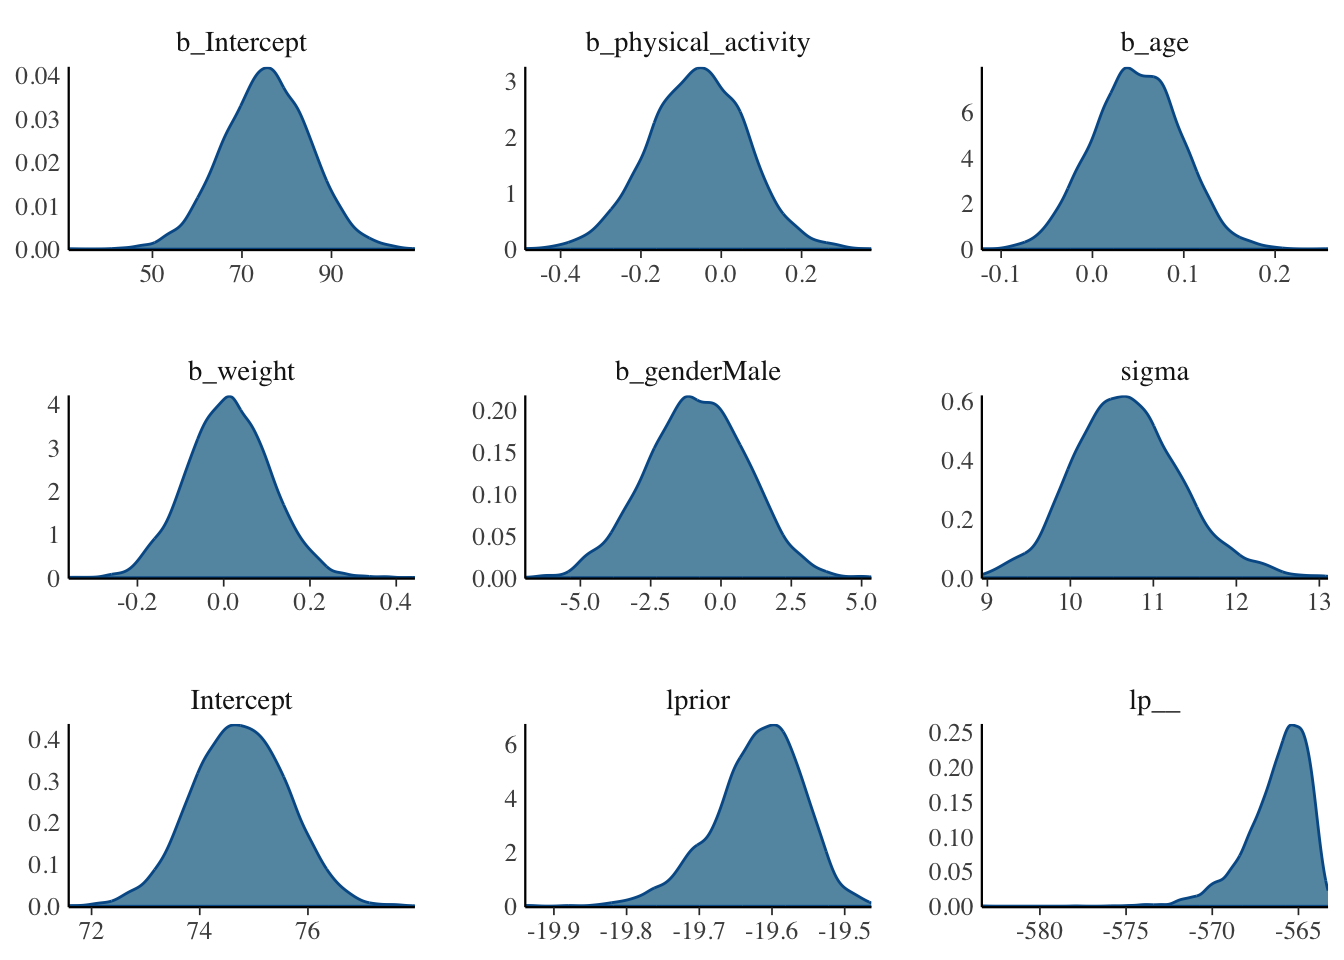
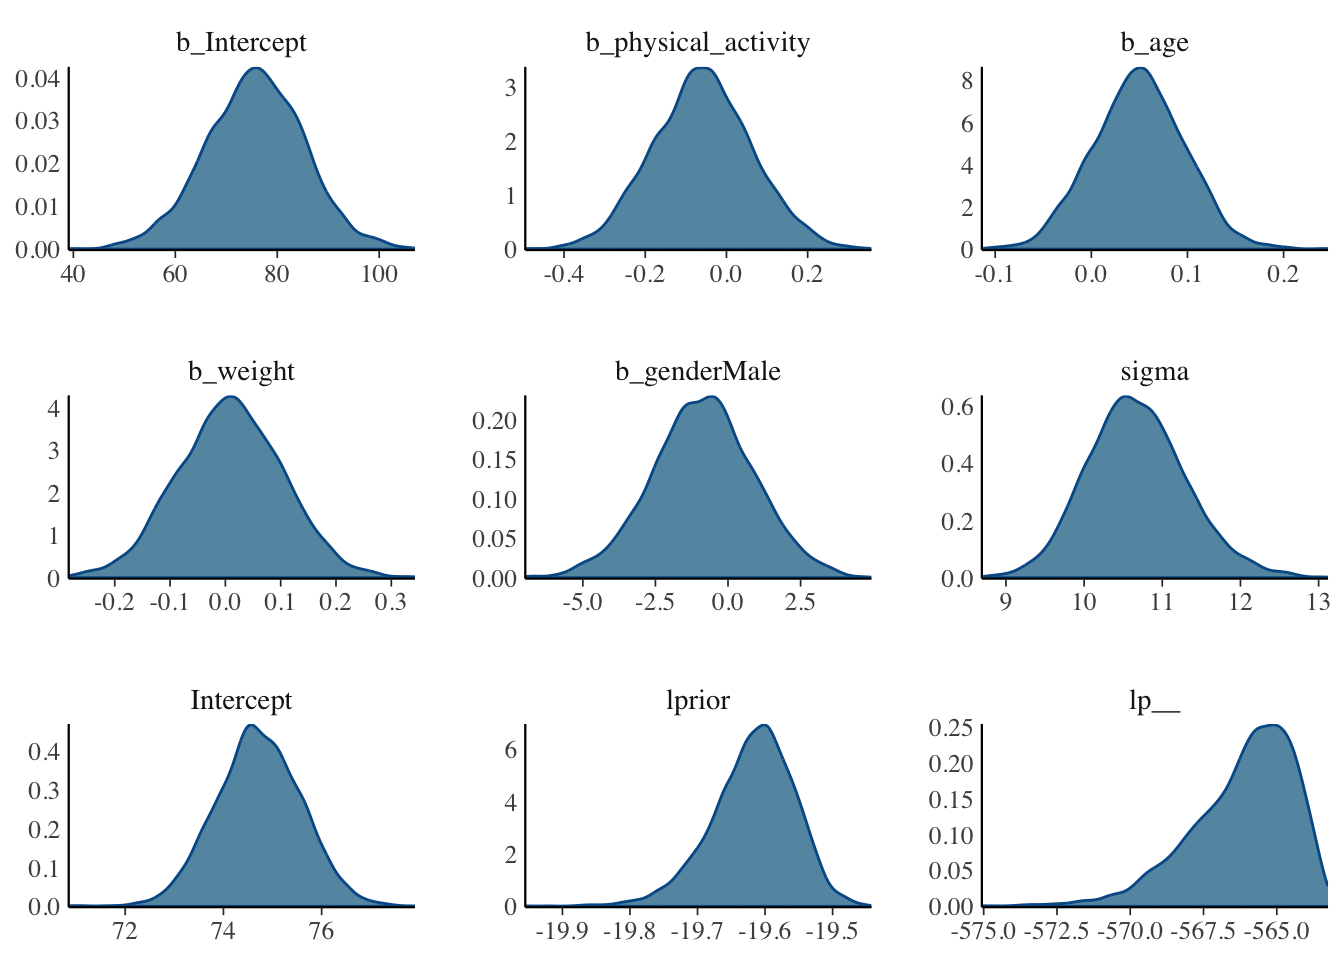
render

diff --git a/docs/begin.html b/docs/begin.html
@@ -215,7 +215,7 @@ pre > code.sourceCode > span > a:first-child::before { text-decoration: underlin
 <h1>Fear Not!</h1>
 <p><em>If you’re new to RStudio, you’ve come to the right place. Beyond my advanced projects, I’ve created this beginner-friendly page to share some basic computations. Whether you’re an employer or a colleague visiting, I’m delighted to have your interest.</em></p>
 <p><em>We all have our first “sense of horror” moment when we first encounter RStudio. For me, it was during my first year in a biostatistics class with my teacher, Tessa. She had us working on projects using RStudio during class, and those initial weeks were chaotic. We were all frustrated and terrified by what appeared on our screens—scary red errors seemed to pop up every second, and we felt like we were making no progress at all. However, Tessa remained by our side. She dedicated the beginning of every class to addressing the typical errors we encountered, guiding us toward smart tactics and helpful online resources.</em></p>
-<p><em>By the end of the semester, our perception of RStudio had completely changed. Tessa helped us realize that it wasn’t some dark abyss from which no student returns; it was a powerful tool that made statistics easier to compute. We bid farewell to the daunting equations we were accustomed to and began computing statistical techniques at a rapid pace. To this day, every one of my classmates continues to use RStudio with excitement and without fear. This software is truly your best friend if you use it wisely.</em></p>
+<p><em>By the end of the semester, our perception of RStudio had completely changed. Tessa helped us realize that it wasn’t some dark abyss from which no student returns; it was a powerful tool that made statistics easier to compute. We bid farewell to the daunting equations we were accustomed to and began computing statistical techniques at a rapid pace. To this day, every one of my classmates continues to use RStudio with excitement. This software is truly your best friend if you use it wisely.</em></p>
 <section id="learning-r" class="level2">
 <h2 class="anchored" data-anchor-id="learning-r">Learning R</h2>
 <ol type="1">
@@ -223,7 +223,7 @@ pre > code.sourceCode > span > a:first-child::before { text-decoration: underlin
 <li><p><em>Packages</em></p></li>
 <li><p><em>Reading Data</em></p></li>
 <li><p><em>Tidying Data</em></p></li>
-<li><p><em>Building Functions</em></p></li>
+<li><p><em>Functions</em></p></li>
 <li><p><em>Data Visualization</em></p></li>
 </ol>
 <p><img src="images/IMG_5316-02.png" class="img-fluid"></p>
@@ -234,10 +234,10 @@ pre > code.sourceCode > span > a:first-child::before { text-decoration: underlin
 <li><p><em><strong>The Help Center in RStudio</strong>: Located in the bottom right pane of your window, the Help Center provides detailed explanations of each command in R. You can learn about the purpose of each function, as well as their sub-commands and properties. You can also type any command with the <code>?</code> symbol in front of it and it will direct you to the same window (e.g., <code>?plot()</code>).</em></p></li>
 <li><p><em><strong>The R Project Website</strong>: Provides comprehensive documentation and manuals.</em></p></li>
 <li><p><em><strong>RStudio Community</strong>: An active forum where you can ask questions.</em></p></li>
-<li><p><em><strong>R-Bloggers</strong>:</em> <em>A fantastic resource for tutorials, tips, and tricks from the R community.</em></p></li>
+<li><p><em><strong>R-Bloggers</strong>:</em> <em>A resource for tutorials, tips, and tricks from the R community.</em></p></li>
 <li><p><em><strong>YouTube</strong>: Useful tutorials for visual learners.</em></p></li>
 <li><p><em><strong>Reddit</strong>: A community where everyone deals with problems using R. Visit Reddit to view a wide range of questions and answers from people around the globe.</em></p></li>
-<li><p><em><strong>Generative AI</strong>: Appropriate in certain circumstances. Use with caution, as AI can occasionally produce incorrect solutions to your code.</em></p></li>
+<li><p><em><strong>Generative AI</strong>: An easy tool that can pick out the flaw in your code and guide you toward a solution. However, I recommend you use with caution, as AI can occasionally produce unreliable solutions to your code.</em></p></li>
 </ul>
 <p><em>By leveraging these resources, you can make your learning journey with R more efficient and less daunting.</em></p>
 </section>
@@ -245,27 +245,24 @@ pre > code.sourceCode > span > a:first-child::before { text-decoration: underlin
 <h3 class="anchored" data-anchor-id="packages">2. Packages</h3>
 <p><em>R packages are collections of functions, data, and documentation that extend the capabilities of base R, making it easier and more efficient to perform a wide range of tasks.</em></p>
 <ul>
-<li><p><strong>Simplify Complex Tasks</strong></p>
-<ul>
-<li><em>Packages can simplify complex tasks into manageable functions. For instance, data visualization with <code>ggplot2</code> or data manipulation with <code>dplyr</code> breaks down intricate processes into straightforward commands.</em></li>
-</ul></li>
-<li><p><strong>Enhance Data Analysis</strong></p>
-<ul>
-<li><em>Packages like <code>tidyverse</code> offer tools for data import, tidying, transformation, visualization, and modeling. These integrated tools follow a consistent philosophy, making data analysis more intuitive.</em></li>
-</ul></li>
-<li><p><strong>Improve Data Visualization</strong></p>
-<ul>
-<li><em>Packages such as <code>ggplot2</code>, <code>plotly</code>, and <code>shiny</code> help create advanced and interactive data visualizations. This makes it easier to explore and communicate data insights.</em></li>
-</ul></li>
-<li><p><strong>Streamline Workflow</strong></p>
-<ul>
-<li><em>Packages like <code>knitr</code> and <code>rmarkdown</code> allow for dynamic report generation, integrating code and its output in a single document. This streamlines the workflow from data analysis to reporting.</em></li>
-</ul></li>
-<li><p><strong>Access Vast Amounts of Data</strong></p>
-<ul>
-<li><em>Packages like <code>dplyr</code> and <code>tidyr</code> help in efficiently handling and processing large datasets. This is particularly useful for big data applications where performance is crucial.</em></li>
-</ul></li>
+<li><p><em>Simplify Complex Tasks</em></p></li>
+<li><p><em>Improve Data Analysis</em></p></li>
+<li><p><em>Improve Data Visualization</em></p></li>
+<li><p><em>Streamline Workflow</em></p></li>
 </ul>
+<p><em>Here are some of the most common or important packages in R used in the social sciences:</em></p>
+<ul>
+<li><p><em><strong><code>ggplot2</code>:</strong> Customizable plots</em></p></li>
+<li><p><em><strong><code>dplyr</code>:</strong> Data manipulation</em></p></li>
+<li><p><em><strong><code>tidyr</code>:</strong> Cleaning data</em></p></li>
+<li><p><em><strong><code>stringr</code>:</strong> String manipulation</em></p></li>
+<li><p><em><strong><code>lubridate</code>:</strong> Dates and times</em></p></li>
+<li><p><em><strong><code>psych</code>:</strong> Psychometrics and psychological research</em></p></li>
+<li><p><em><strong><code>lme4</code>:</strong> Linear and generalized linear mixed-effects models</em></p></li>
+<li><p><em><strong><code>afex</code>:</strong> Factorial analysis</em></p></li>
+<li><p><em><strong><code>bayesplot</code></strong>or<strong><code>brms</code>:</strong> Bayesian statistics</em></p></li>
+</ul>
+<p><em>The <strong><code>tidyverse</code></strong> is a collection of R packages designed for data science. The core packages included in tidyverse are <strong><code>ggplot2</code>, <code>tidyr</code>, <code>readr</code>, <code>dplyr</code>,</strong> and<strong><code>stringr</code>.</strong> You can also download these packages separately.</em></p>
 </section>
 <section id="reading-data." class="level3">
 <h3 class="anchored" data-anchor-id="reading-data.">3. Reading data.</h3>
@@ -864,7 +861,7 @@ Number of Fisher Scoring iterations: 8</code></pre>
 <div class="cell-output cell-output-stdout">
 <pre><code>
 The downloaded binary packages are in
-    /var/folders/k3/v39j6g_x4bv7mv_xq03986d00000gn/T//Rtmpb4xYxg/downloaded_packages</code></pre>
+    /var/folders/k3/v39j6g_x4bv7mv_xq03986d00000gn/T//RtmpMEnsi6/downloaded_packages</code></pre>
 </div>
 <div class="sourceCode cell-code" id="cb57"><pre class="sourceCode r code-with-copy"><code class="sourceCode r"><span id="cb57-1"><a href="#cb57-1" aria-hidden="true" tabindex="-1"></a><span class="fu">library</span>(ggplot2)</span></code><button title="Copy to Clipboard" class="code-copy-button"><i class="bi"></i></button></pre></div>
 </div>

diff --git a/docs/timeseries.html b/docs/timeseries.html
@@ -190,7 +190,7 @@ pre > code.sourceCode > span > a:first-child::before { text-decoration: underlin
     <h2 id="toc-title">On this page</h2>
    
   <ul>
-  <li><a href="#building-an-arima-model-for-tuna-fisheries" id="toc-building-an-arima-model-for-tuna-fisheries" class="nav-link active" data-scroll-target="#building-an-arima-model-for-tuna-fisheries">Building an ARIMA Model for Tuna Fisheries</a>
+  <li><a href="#forecasting-tuna-fisheries" id="toc-forecasting-tuna-fisheries" class="nav-link active" data-scroll-target="#forecasting-tuna-fisheries">Forecasting Tuna Fisheries</a>
   <ul class="collapse">
   <li><a href="#install-and-load-packages" id="toc-install-and-load-packages" class="nav-link" data-scroll-target="#install-and-load-packages">1. Install and Load Packages</a></li>
   <li><a href="#plot-quantity-and-price" id="toc-plot-quantity-and-price" class="nav-link" data-scroll-target="#plot-quantity-and-price">2. Plot Quantity and Price</a></li>
@@ -200,7 +200,7 @@ pre > code.sourceCode > span > a:first-child::before { text-decoration: underlin
   <li><a href="#evaluate-results" id="toc-evaluate-results" class="nav-link" data-scroll-target="#evaluate-results">6. Evaluate Results</a></li>
   <li><a href="#exploratory-data-analysis-with-different-species" id="toc-exploratory-data-analysis-with-different-species" class="nav-link" data-scroll-target="#exploratory-data-analysis-with-different-species">7. Exploratory Data Analysis with Different Species</a></li>
   <li><a href="#model-improvement" id="toc-model-improvement" class="nav-link" data-scroll-target="#model-improvement">8. Model Improvement</a></li>
-  <li><a href="#model-diagnostics" id="toc-model-diagnostics" class="nav-link" data-scroll-target="#model-diagnostics">9. Model Diagnostics</a></li>
+  <li><a href="#diagnostics" id="toc-diagnostics" class="nav-link" data-scroll-target="#diagnostics">9. Diagnostics</a></li>
   </ul></li>
   </ul>
 </nav>
@@ -211,13 +211,12 @@ pre > code.sourceCode > span > a:first-child::before { text-decoration: underlin
 
 
 
-<section id="building-an-arima-model-for-tuna-fisheries" class="level1">
-<h1>Building an ARIMA Model for Tuna Fisheries</h1>
-<p><em>This was a project I worked on in my Masters program in Environmental Psychology. It was one of my favorite projects and I felt like I learned a ton from the experience.</em></p>
+<section id="forecasting-tuna-fisheries" class="level1">
+<h1>Forecasting Tuna Fisheries</h1>
+<p><em>This project was part of a statistics course in environmental econometrics. My task was to develop a robust model to predict trends in environmental data, as well as write a paper that critically analyses the findings and offers potential contributing factors.</em></p>
 <p><em>The best resource I found that helped me understand the process of this analysis was in an online book (Gijón Air Pollution - An exercise of visualization and forecasting). Check out chapter 8 for ARIMA models! (</em><a href="https://bookdown.org/sergioberdiales/tfm-kschool_gijon_air_pollution/forecasting-models-arima.html" class="uri">https://bookdown.org/sergioberdiales/tfm-kschool_gijon_air_pollution/forecasting-models-arima.html</a>)</p>
 <p><em>Dataset retrieved from TCASHION on Kaggle (</em><a href="https://www.kaggle.com/datasets/tcashion/tokyo-wholesale-tuna-prices/code" class="uri">https://www.kaggle.com/datasets/tcashion/tokyo-wholesale-tuna-prices/code</a>)</p>
 <p><em>The Tsukiji fish market, which operated until 2018, was the largest wholesale fish market in the world, specializing in sashimi tunas.</em></p>
-<p><em>This dataset is ideal for econometric modeling.</em></p>
 <p><strong><em>Species Covered:</em></strong></p>
 <ul>
 <li><p><em>Bluefin Tuna</em></p></li>
@@ -476,7 +475,7 @@ Training set -0.01891516</code></pre>
 <div class="sourceCode cell-code" id="cb25"><pre class="sourceCode r code-with-copy"><code class="sourceCode r"><span id="cb25-1"><a href="#cb25-1" aria-hidden="true" tabindex="-1"></a><span class="co"># Forecasting Quantity</span></span>
 <span id="cb25-2"><a href="#cb25-2" aria-hidden="true" tabindex="-1"></a>fore_quan <span class="ot">&lt;-</span> <span class="fu">forecast</span>(fit_quan, <span class="at">h =</span> <span class="dv">12</span>) </span>
 <span id="cb25-3"><a href="#cb25-3" aria-hidden="true" tabindex="-1"></a><span class="fu">autoplot</span>(fore_quan) <span class="sc">+</span></span>
-<span id="cb25-4"><a href="#cb25-4" aria-hidden="true" tabindex="-1"></a>  <span class="fu">labs</span>(<span class="at">title =</span> <span class="st">"Forecasted Tuna Prices using ARIMA"</span>, <span class="at">x =</span> <span class="st">"Date"</span>, <span class="at">y =</span> <span class="st">"Price"</span>) <span class="sc">+</span></span>
+<span id="cb25-4"><a href="#cb25-4" aria-hidden="true" tabindex="-1"></a>  <span class="fu">labs</span>(<span class="at">title =</span> <span class="st">"Forecasted Tuna Quantity using ARIMA"</span>, <span class="at">x =</span> <span class="st">"Date"</span>, <span class="at">y =</span> <span class="st">"Price"</span>) <span class="sc">+</span></span>
 <span id="cb25-5"><a href="#cb25-5" aria-hidden="true" tabindex="-1"></a>  <span class="fu">theme_minimal</span>()</span></code><button title="Copy to Clipboard" class="code-copy-button"><i class="bi"></i></button></pre></div>
 <div class="cell-output-display">
 <div>
@@ -510,7 +509,7 @@ Training set -0.01891516</code></pre>
 </div>
 </div>
 <div class="sourceCode cell-code" id="cb27"><pre class="sourceCode r code-with-copy"><code class="sourceCode r"><span id="cb27-1"><a href="#cb27-1" aria-hidden="true" tabindex="-1"></a><span class="fu">autoplot</span>(residuals_q) <span class="sc">+</span> </span>
-<span id="cb27-2"><a href="#cb27-2" aria-hidden="true" tabindex="-1"></a>  <span class="fu">labs</span>(<span class="at">title =</span> <span class="st">"Quanitity Residuals of ARIMA Model"</span>, <span class="at">x =</span> <span class="st">"Date"</span>, <span class="at">y =</span> <span class="st">"Residuals"</span>) <span class="sc">+</span></span>
+<span id="cb27-2"><a href="#cb27-2" aria-hidden="true" tabindex="-1"></a>  <span class="fu">labs</span>(<span class="at">title =</span> <span class="st">"Quantity Residuals of ARIMA Model"</span>, <span class="at">x =</span> <span class="st">"Date"</span>, <span class="at">y =</span> <span class="st">"Residuals"</span>) <span class="sc">+</span></span>
 <span id="cb27-3"><a href="#cb27-3" aria-hidden="true" tabindex="-1"></a>  <span class="fu">theme_minimal</span>()</span></code><button title="Copy to Clipboard" class="code-copy-button"><i class="bi"></i></button></pre></div>
 <div class="cell-output-display">
 <div>
@@ -845,8 +844,8 @@ Training set 0.002743469</code></pre>
 </div>
 </div>
 </section>
-<section id="model-diagnostics" class="level3">
-<h3 class="anchored" data-anchor-id="model-diagnostics">9. Model Diagnostics</h3>
+<section id="diagnostics" class="level3">
+<h3 class="anchored" data-anchor-id="diagnostics">9. Diagnostics</h3>
 <div class="cell">
 <div class="sourceCode cell-code" id="cb83"><pre class="sourceCode r code-with-copy"><code class="sourceCode r"><span id="cb83-1"><a href="#cb83-1" aria-hidden="true" tabindex="-1"></a><span class="co"># Plot residuals</span></span>
 <span id="cb83-2"><a href="#cb83-2" aria-hidden="true" tabindex="-1"></a><span class="fu">autoplot</span>(residuals_p1) <span class="sc">+</span> </span>
@@ -924,7 +923,6 @@ X-squared = 48.397, df = 20, p-value = 0.0003741</code></pre>
 <p><em>The updated price model shows a substantial reduction in error metrics and an increase in explanatory power, with the R-squared value improving from 0.657 to 0.737. This indicates that the model now explains approximately 73.72% of the variance in the price data, suggesting a more accurate and reliable model.</em></p>
 <p><em>The quantity model also shows improved performance, with lower error metrics and a higher R-squared value, now at 0.86291. This indicates that the model explains about 86.29% of the variance in the quantity data.</em></p>
 <p><em>The p-values for both tests are significantly lower than 0.05, indicating that there is still some autocorrelation in the residuals, suggesting that the models could be further refined. However, the current models still provide a substantial improvement over the initial attempts.</em></p>
-<p><em>I am definitely not satisfied with the results, but I really enjoyed working on this project. I learned a lot time series analysis using R and I can’t wait to design another model like this in the future.</em></p>
 
 
 </section>

diff --git a/docs/bayes.html b/docs/bayes.html
@@ -291,8 +291,8 @@ Attaching package: 'bayesplot'</code></pre>
 <pre><code>
 SAMPLING FOR MODEL 'anon_model' NOW (CHAIN 1).
 Chain 1: 
-Chain 1: Gradient evaluation took 3.4e-05 seconds
-Chain 1: 1000 transitions using 10 leapfrog steps per transition would take 0.34 seconds.
+Chain 1: Gradient evaluation took 3e-05 seconds
+Chain 1: 1000 transitions using 10 leapfrog steps per transition would take 0.3 seconds.
 Chain 1: Adjust your expectations accordingly!
 Chain 1: 
 Chain 1: 
@@ -309,9 +309,9 @@ Chain 1: Iteration: 1600 / 2000 [ 80%]  (Sampling)
 Chain 1: Iteration: 1800 / 2000 [ 90%]  (Sampling)
 Chain 1: Iteration: 2000 / 2000 [100%]  (Sampling)
 Chain 1: 
-Chain 1:  Elapsed Time: 0.046 seconds (Warm-up)
-Chain 1:                0.027 seconds (Sampling)
-Chain 1:                0.073 seconds (Total)
+Chain 1:  Elapsed Time: 0.042 seconds (Warm-up)
+Chain 1:                0.026 seconds (Sampling)
+Chain 1:                0.068 seconds (Total)
 Chain 1: 
 
 SAMPLING FOR MODEL 'anon_model' NOW (CHAIN 2).
@@ -334,15 +334,15 @@ Chain 2: Iteration: 1600 / 2000 [ 80%]  (Sampling)
 Chain 2: Iteration: 1800 / 2000 [ 90%]  (Sampling)
 Chain 2: Iteration: 2000 / 2000 [100%]  (Sampling)
 Chain 2: 
-Chain 2:  Elapsed Time: 0.041 seconds (Warm-up)
-Chain 2:                0.025 seconds (Sampling)
-Chain 2:                0.066 seconds (Total)
+Chain 2:  Elapsed Time: 0.042 seconds (Warm-up)
+Chain 2:                0.026 seconds (Sampling)
+Chain 2:                0.068 seconds (Total)
 Chain 2: 
 
 SAMPLING FOR MODEL 'anon_model' NOW (CHAIN 3).
 Chain 3: 
-Chain 3: Gradient evaluation took 1.1e-05 seconds
-Chain 3: 1000 transitions using 10 leapfrog steps per transition would take 0.11 seconds.
+Chain 3: Gradient evaluation took 9e-06 seconds
+Chain 3: 1000 transitions using 10 leapfrog steps per transition would take 0.09 seconds.
 Chain 3: Adjust your expectations accordingly!
 Chain 3: 
 Chain 3: 
@@ -359,15 +359,15 @@ Chain 3: Iteration: 1600 / 2000 [ 80%]  (Sampling)
 Chain 3: Iteration: 1800 / 2000 [ 90%]  (Sampling)
 Chain 3: Iteration: 2000 / 2000 [100%]  (Sampling)
 Chain 3: 
-Chain 3:  Elapsed Time: 0.043 seconds (Warm-up)
-Chain 3:                0.025 seconds (Sampling)
-Chain 3:                0.068 seconds (Total)
+Chain 3:  Elapsed Time: 0.045 seconds (Warm-up)
+Chain 3:                0.026 seconds (Sampling)
+Chain 3:                0.071 seconds (Total)
 Chain 3: 
 
 SAMPLING FOR MODEL 'anon_model' NOW (CHAIN 4).
 Chain 4: 
-Chain 4: Gradient evaluation took 1.6e-05 seconds
-Chain 4: 1000 transitions using 10 leapfrog steps per transition would take 0.16 seconds.
+Chain 4: Gradient evaluation took 9e-06 seconds
+Chain 4: 1000 transitions using 10 leapfrog steps per transition would take 0.09 seconds.
 Chain 4: Adjust your expectations accordingly!
 Chain 4: 
 Chain 4: 
@@ -384,9 +384,9 @@ Chain 4: Iteration: 1600 / 2000 [ 80%]  (Sampling)
 Chain 4: Iteration: 1800 / 2000 [ 90%]  (Sampling)
 Chain 4: Iteration: 2000 / 2000 [100%]  (Sampling)
 Chain 4: 
-Chain 4:  Elapsed Time: 0.047 seconds (Warm-up)
-Chain 4:                0.026 seconds (Sampling)
-Chain 4:                0.073 seconds (Total)
+Chain 4:  Elapsed Time: 0.039 seconds (Warm-up)
+Chain 4:                0.027 seconds (Sampling)
+Chain 4:                0.066 seconds (Total)
 Chain 4: </code></pre>
 </div>
 <div class="sourceCode cell-code" id="cb20"><pre class="sourceCode r code-with-copy"><code class="sourceCode r"><span id="cb20-1"><a href="#cb20-1" aria-hidden="true" tabindex="-1"></a><span class="co"># Print a summary of the fitted model, we can assess our estimates and our credible intervals</span></span>
@@ -401,15 +401,15 @@ Formula: heart_rate ~ physical_activity + age + weight + gender
 
 Regression Coefficients:
                   Estimate Est.Error l-95% CI u-95% CI Rhat Bulk_ESS Tail_ESS
-Intercept            75.49      9.66    56.36    94.11 1.00     5658     2916
-physical_activity    -0.06      0.12    -0.30     0.17 1.00     5615     3162
-age                   0.05      0.05    -0.04     0.14 1.00     5671     3058
-weight                0.01      0.10    -0.17     0.20 1.00     5710     2958
-genderMale           -0.86      1.78    -4.43     2.55 1.00     5389     2898
+Intercept            75.60      9.63    56.19    93.92 1.00     6131     3161
+physical_activity    -0.06      0.12    -0.30     0.19 1.00     6306     2976
+age                   0.05      0.05    -0.04     0.14 1.00     6001     2919
+weight                0.01      0.10    -0.18     0.19 1.00     5357     2850
+genderMale           -0.86      1.76    -4.41     2.59 1.00     5770     2972
 
 Further Distributional Parameters:
       Estimate Est.Error l-95% CI u-95% CI Rhat Bulk_ESS Tail_ESS
-sigma    10.69      0.65     9.46    12.11 1.00     4934     2318
+sigma    10.68      0.64     9.50    12.04 1.00     5904     3180
 
 Draws were sampled using sampling(NUTS). For each parameter, Bulk_ESS
 and Tail_ESS are effective sample size measures, and Rhat is the potential

diff --git a/docs/index.html b/docs/index.html
@@ -188,7 +188,7 @@ ul.task-list li input[type="checkbox"] {
 </section>
 <section id="learn-r" class="level2">
 <h2 class="anchored" data-anchor-id="learn-r">Learn R</h2>
-<p>If you’re new to R or part of my tutoring program, you’ve come to the right place. Here, I offer beginner-friendly tutorials and resources to help you master the basics of R programming.</p>
+<p>If you’re part of my tutoring program or just new to R, you’ve come to the right place. Here, I offer beginner-friendly tutorials and resources to help you master the basics of R programming.</p>
 </section>
 <section id="connect-with-me" class="level2">
 <h2 class="anchored" data-anchor-id="connect-with-me">Connect with Me</h2>
